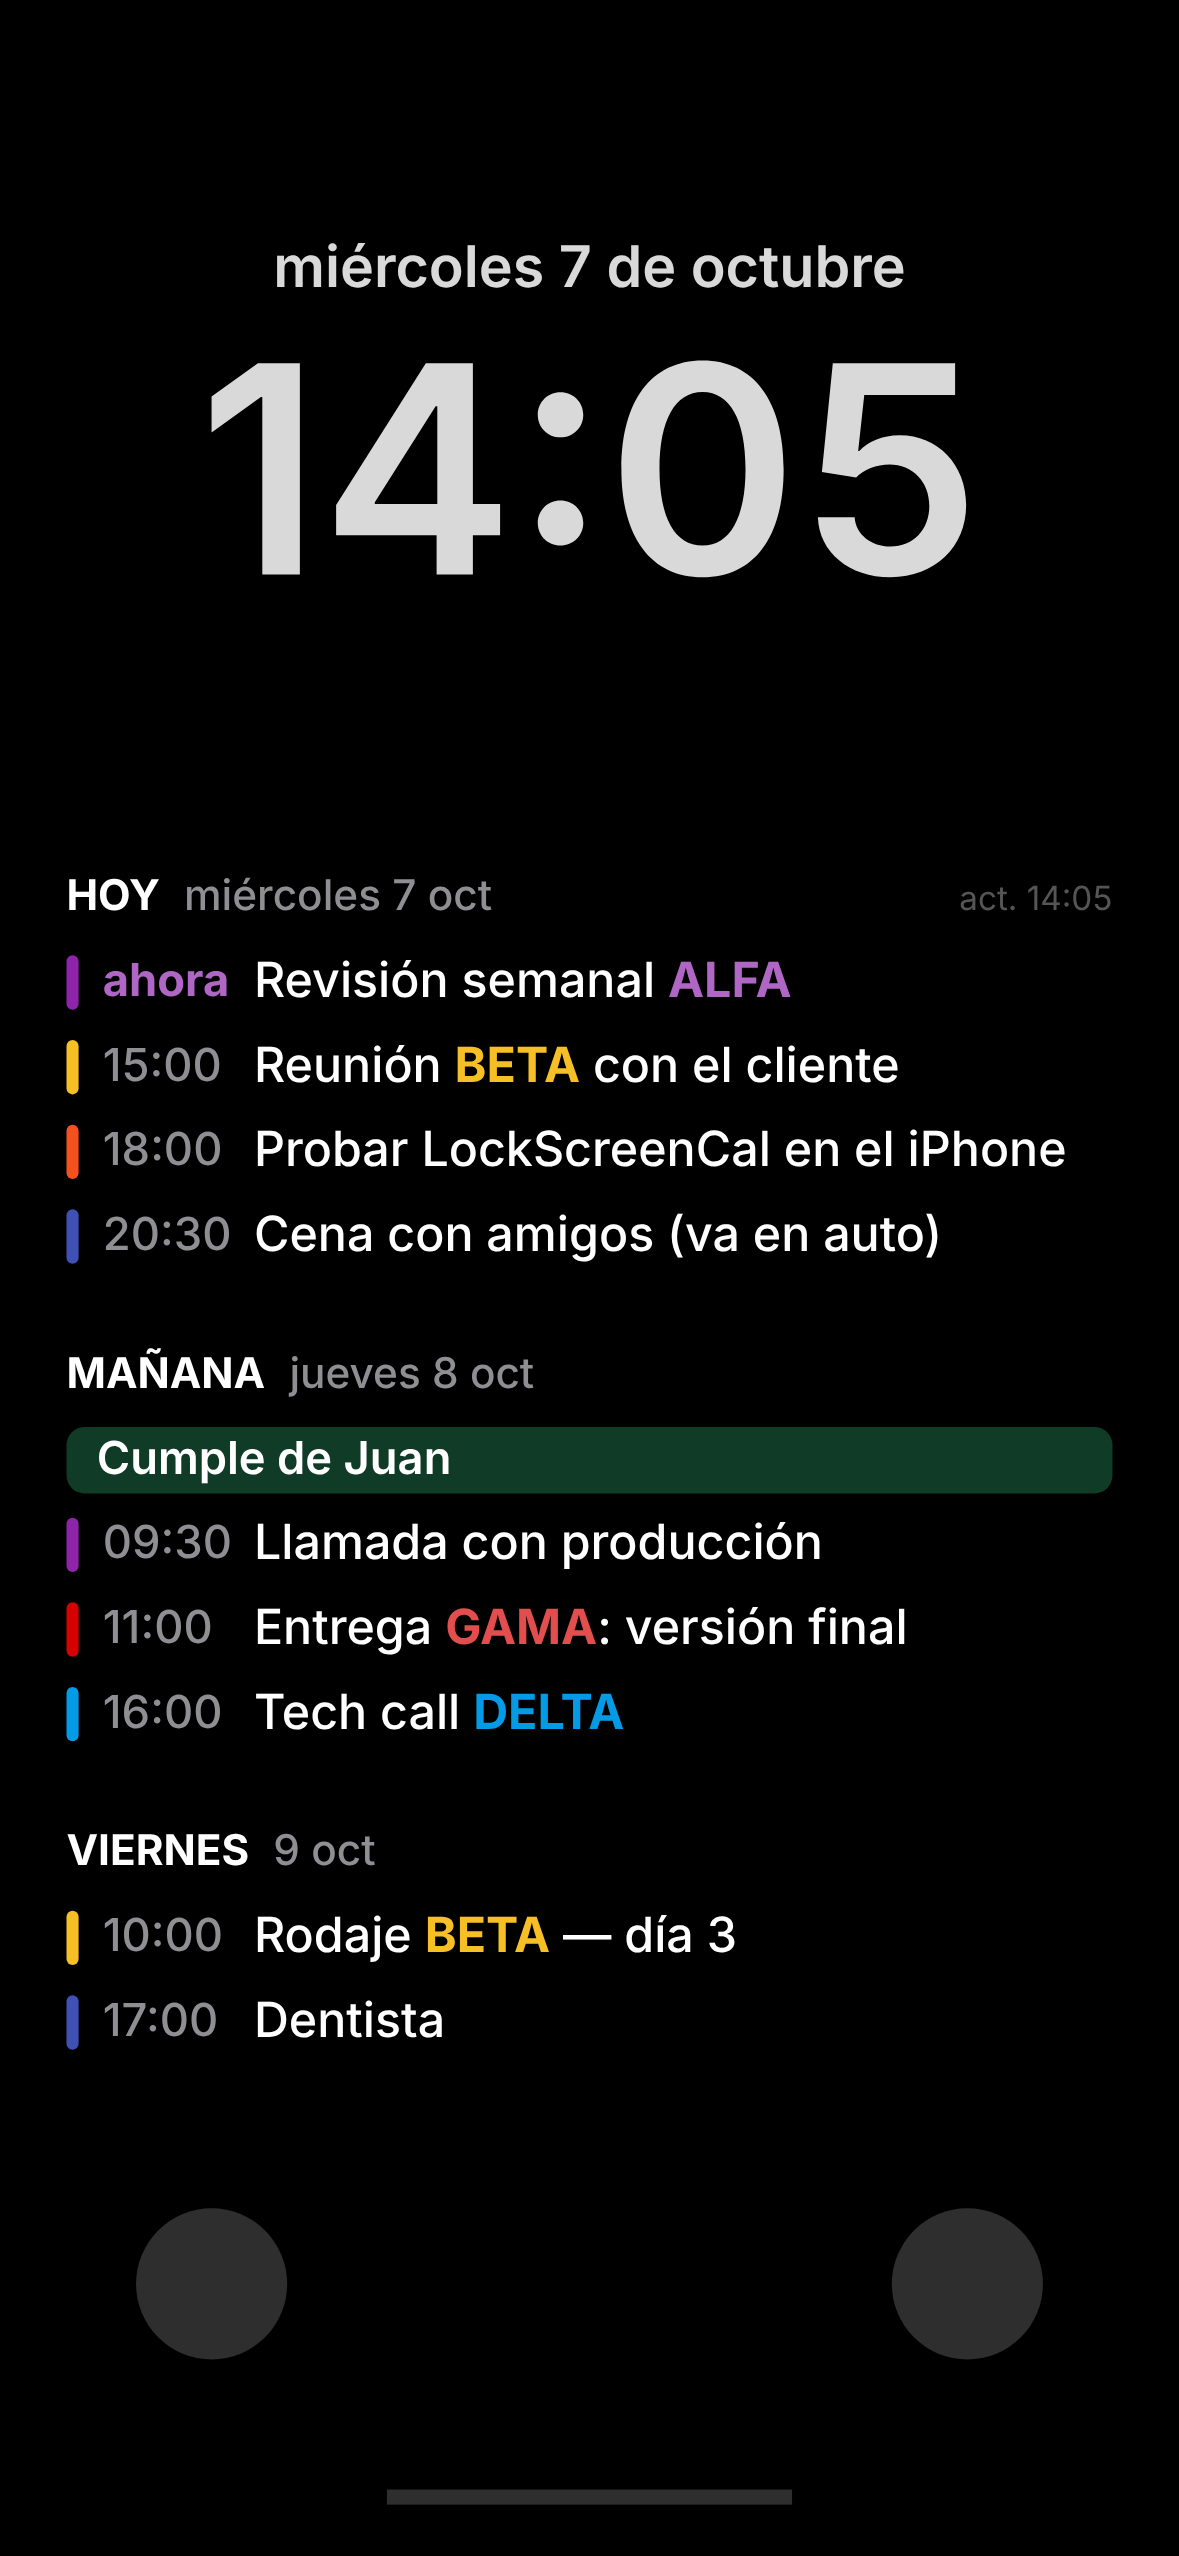
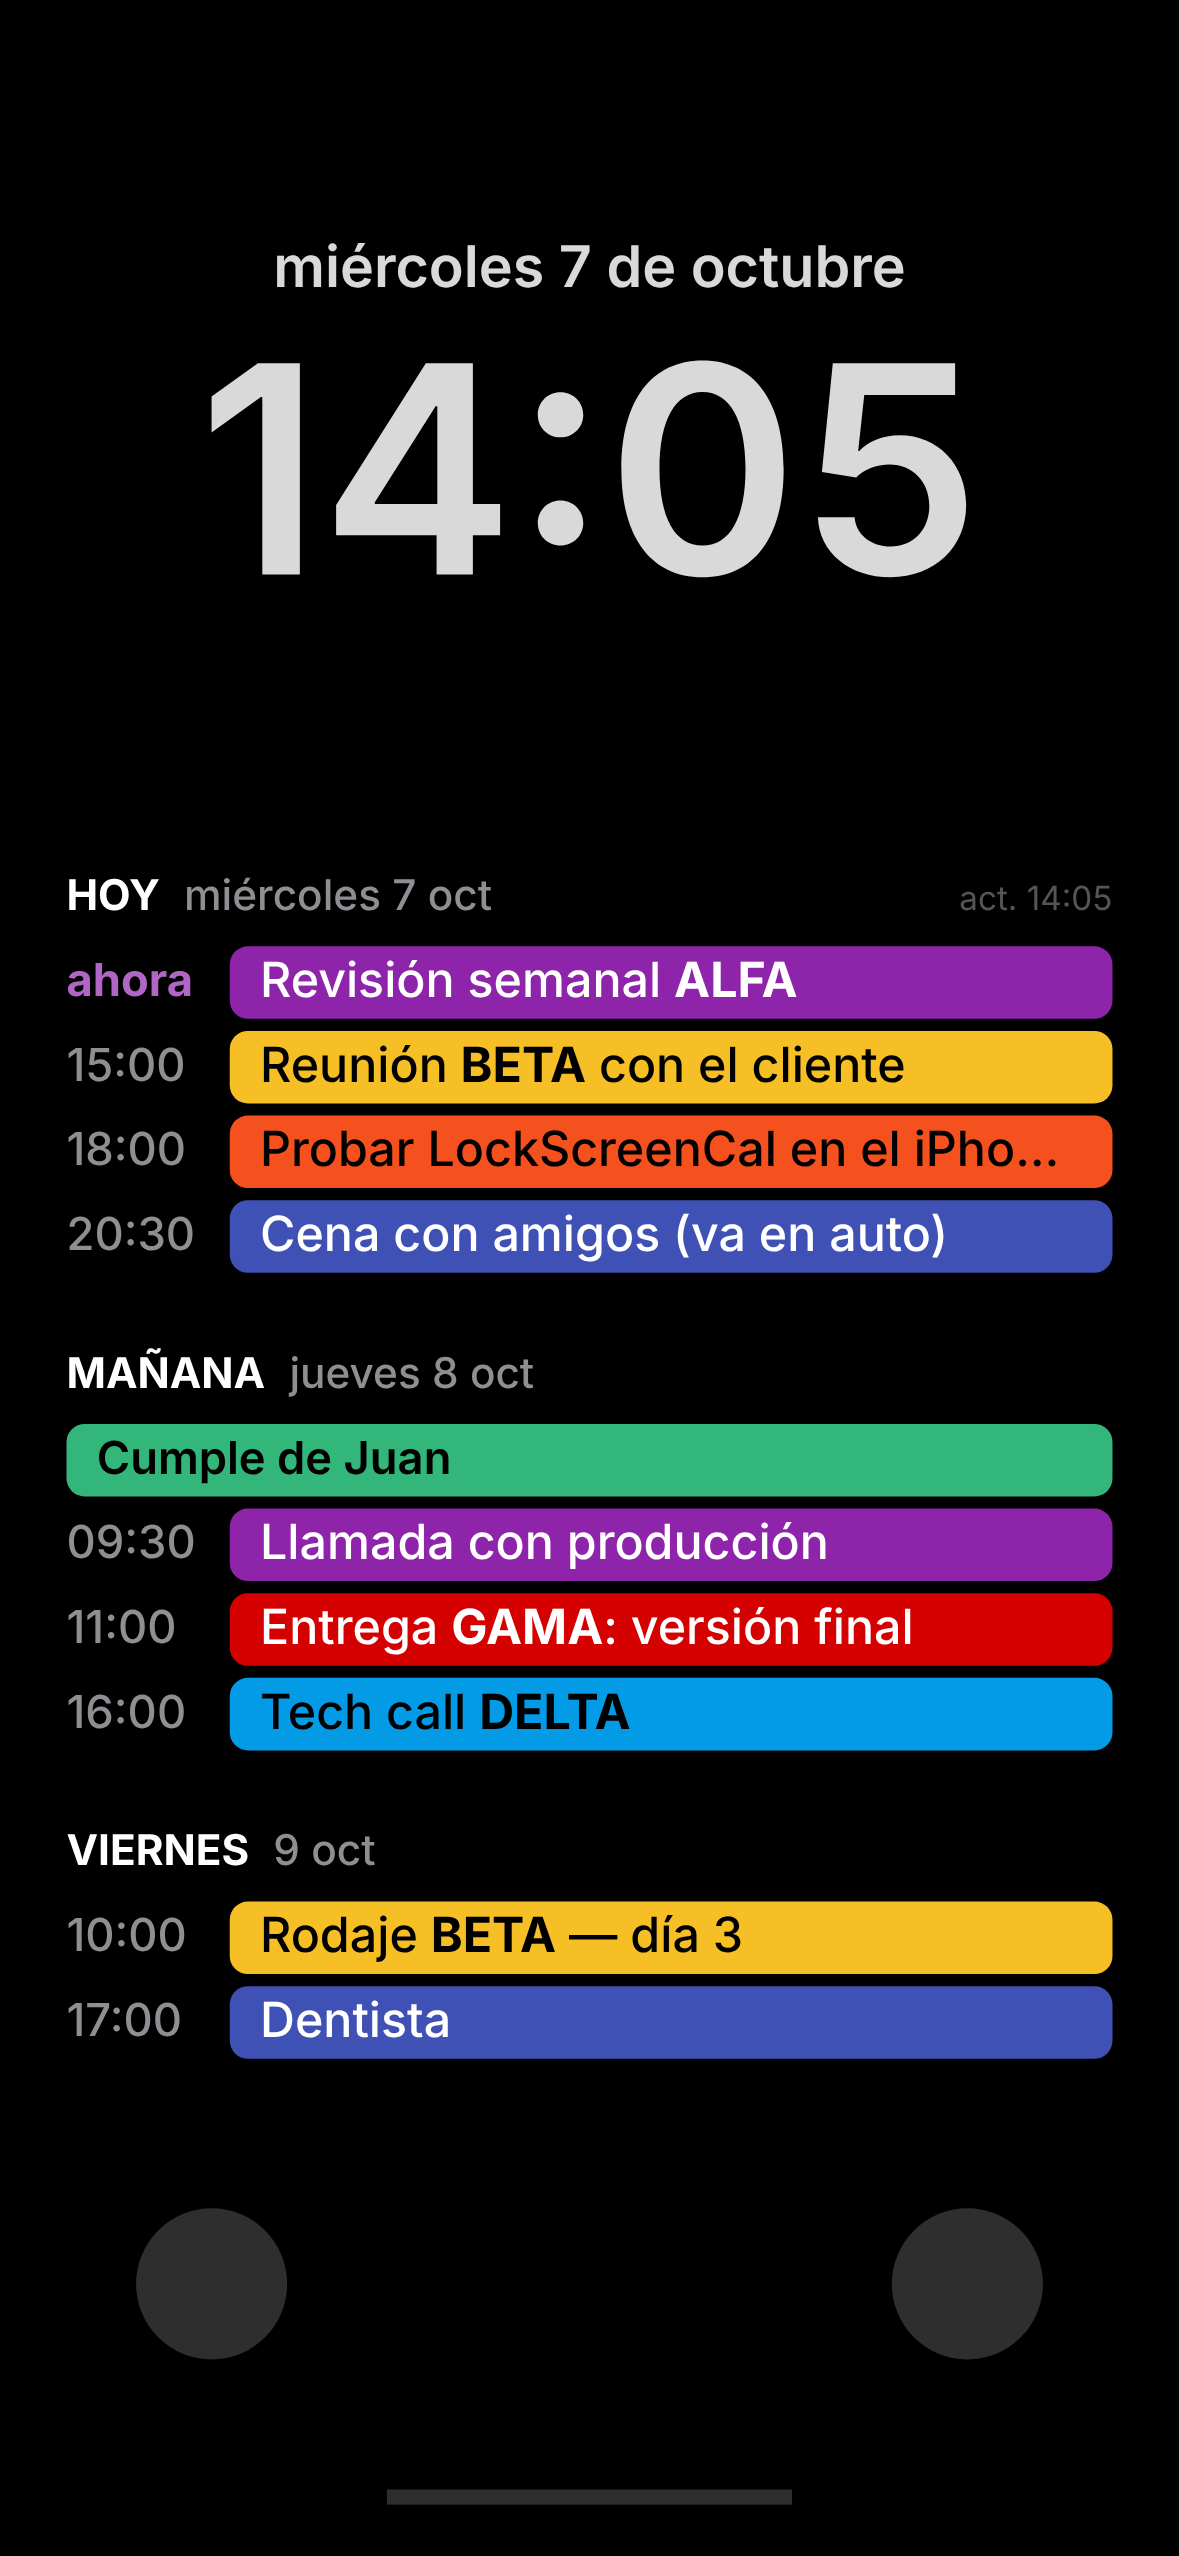
Eventos con el fondo pintado de su color
Cada evento se dibuja como una caja de su color, con el texto en negro o
blanco segun el contraste. La barrita de antes queda como eventStyle: bar.

Changed region(s): [[0.0305, 0.5563, 0.9466, 0.7109], [0.0305, 0.3709, 0.9466, 0.5254], [0.0305, 0.7418, 0.9466, 0.8036]]

diff --git a/LockScreenCal.js b/LockScreenCal.js
@@ -41,6 +41,10 @@ const CONFIG = {
   // Muestra arriba a la derecha la hora de la ultima actualizacion.
   showUpdated: true,
 
+  // Como se pinta cada evento: "fill" = el fondo del evento entero de su color
+  // (como en Google Calendar); "bar" = una barrita de color a la izquierda.
+  eventStyle: "fill",
+
   // Palabras que se pintan de su color cada vez que aparecen en un titulo,
   // ej. { ALFA: "#8E24AA" }. Distingue mayusculas ("VA" se pinta, "va" no) y
   // solo toma palabras enteras. En el texto, un color muy oscuro se aclara
@@ -51,7 +55,7 @@ const CONFIG = {
 // Lo que manda el cargador (MI_CONFIG). Corriendo este archivo suelto no existe.
 if (typeof OVERRIDES === "object" && OVERRIDES) Object.assign(CONFIG, OVERRIDES);
 
-const VERSION = "0.6";
+const VERSION = "0.7";
 
 // ==== RENDER START ====
 // Dibuja el calendario en un <canvas>. Corre dentro de un WebView (en el iPhone)
@@ -85,15 +89,21 @@ function drawCalendar(canvas, data) {
   };
   // Sobre negro, un violeta o un azul oscuro como texto no se lee: se mezcla
   // con blanco hasta que tenga luz suficiente. Las barras usan el color tal cual.
-  const readable = hex => {
+  const toRgb = hex => {
     let h = String(hex || "#888888").replace("#", "");
     if (h.length === 3) h = h.split("").map(c => c + c).join("");
     const n = parseInt(h.slice(0, 6), 16);
-    const rgb = [(n >> 16) & 255, (n >> 8) & 255, n & 255];
-    const lum = c => {
-      const l = c.map(v => { v /= 255; return v <= 0.03928 ? v / 12.92 : Math.pow((v + 0.055) / 1.055, 2.4); });
-      return 0.2126 * l[0] + 0.7152 * l[1] + 0.0722 * l[2];
-    };
+    return [(n >> 16) & 255, (n >> 8) & 255, n & 255];
+  };
+  const lum = c => {
+    const l = c.map(v => { v /= 255; return v <= 0.03928 ? v / 12.92 : Math.pow((v + 0.055) / 1.055, 2.4); });
+    return 0.2126 * l[0] + 0.7152 * l[1] + 0.0722 * l[2];
+  };
+  // Texto sobre un evento pintado: negro o blanco, el que mas contraste tenga
+  // con ese color (criterio de contraste WCAG: el corte cae en luminancia 0.179).
+  const inkOn = hex => lum(toRgb(hex)) > 0.179 ? "#000000" : "#FFFFFF";
+  const readable = hex => {
+    const rgb = toRgb(hex);
     let mix = rgb;
     for (let t = 0; t <= 1 && lum(mix) < 0.22; t += 0.05) mix = rgb.map(v => Math.round(v + (255 - v) * t));
     return `rgb(${mix[0]},${mix[1]},${mix[2]})`;
@@ -104,8 +114,10 @@ function drawCalendar(canvas, data) {
   const kwRe = kwNames.length
     ? new RegExp(`(?<![\\p{L}\\p{N}])(${kwNames.map(esc).join("|")})(?![\\p{L}\\p{N}])`, "gu")
     : null;
-  // Titulo con las palabras clave en su color (y en negrita).
-  const drawTitle = (text, x, cy, maxW, weight, size) => {
+  // Titulo con las palabras clave en su color (y en negrita). Sobre un evento
+  // pintado (ink) van en negrita del color del texto: en su propio color no se
+  // verian, porque casi siempre es el mismo color del fondo.
+  const drawTitle = (text, x, cy, maxW, weight, size, ink) => {
     ctx.font = font(700, size); // se mide con la mas ancha para no pasarse
     const fitted = fit(text, maxW);
     const parts = kwRe ? fitted.split(kwRe) : [fitted]; // con grupo: impares = clave
@@ -113,7 +125,7 @@ function drawCalendar(canvas, data) {
       if (!part) return;
       const isKw = i % 2 === 1;
       ctx.font = font(isKw ? 700 : weight, size);
-      ctx.fillStyle = isKw ? readable(kw[part]) : o.textColor;
+      ctx.fillStyle = ink || (isKw ? readable(kw[part]) : o.textColor);
       ctx.fillText(part, x, cy);
       x += ctx.measureText(part).width;
     });
@@ -162,14 +174,19 @@ function drawCalendar(canvas, data) {
       ctx.fillText("Nada más por hoy", padX, cy);
       return;
     }
+    const fill = o.eventStyle !== "bar";
     if (e.allDay) {
-      ctx.fillStyle = rgba(e.color, 0.32);
-      pill(padX, y + 3 * s, W - 2 * padX, rowH - 6 * s, 6 * s);
-      drawTitle(e.title, padX + 10 * s, cy, W - 2 * padX - 20 * s, 600, 15);
+      ctx.fillStyle = fill ? e.color : rgba(e.color, 0.32);
+      pill(padX, y + 2 * s, W - 2 * padX, rowH - 4 * s, 6 * s);
+      drawTitle(e.title, padX + 10 * s, cy, W - 2 * padX - 20 * s, 600, 15, fill ? inkOn(e.color) : null);
       return;
     }
-    ctx.fillStyle = e.color;
-    pill(padX, y + 5 * s, 4 * s, rowH - 10 * s, 2 * s);
+    if (!fill) {
+      ctx.fillStyle = e.color;
+      pill(padX, y + 5 * s, 4 * s, rowH - 10 * s, 2 * s);
+    }
+    // Con fondo pintado la hora va pegada al margen y el evento empieza despues.
+    const timeX = fill ? padX : padX + 12 * s;
 
     const ongoing = e.start <= now && e.end > now;
     let label = hhmm(e.start);
@@ -177,10 +194,16 @@ function drawCalendar(canvas, data) {
     if (ongoing) label = "ahora";
     ctx.font = font(ongoing ? 700 : 500, 15);
     ctx.fillStyle = ongoing ? readable(e.color) : o.mutedColor;
-    ctx.fillText(label, padX + 12 * s, cy);
+    ctx.fillText(label, timeX, cy);
 
-    const x = padX + 12 * s + timeW;
-    drawTitle(e.title, x, cy, W - padX - x, 500, 16);
+    const x = timeX + timeW;
+    if (fill) {
+      ctx.fillStyle = e.color;
+      pill(x + 4 * s, y + 2 * s, W - padX - x - 4 * s, rowH - 4 * s, 6 * s);
+      drawTitle(e.title, x + 14 * s, cy, W - padX - x - 24 * s, 500, 16, inkOn(e.color));
+    } else {
+      drawTitle(e.title, x, cy, W - padX - x, 500, 16);
+    }
   };
 
   let y = top;

diff --git a/docs/Bitacora.md b/docs/Bitacora.md
@@ -62,6 +62,12 @@ los del iPhone, y los eventos de Wanka vienen con sus colores de proyecto. "Feri
 Argentina" no está en Google: sale del iPhone. Se le pasó el cargador con `googleUrl`.
 **La URL y la clave del puente no van en este repo** (están solo en su Atajo).
 
+**Eventos pintados (v0.7, 10/10):** pedido de Lega, el fondo de cada evento va
+entero de su color (antes era una barrita). El texto va en negro o blanco según la
+luminancia del color (corte WCAG en 0.179). Sobre un evento pintado, las palabras
+clave van en negrita del color del texto (en su color no se verían). La barrita quedó
+como opción: `eventStyle: "bar"`.
+
 Riesgo a mirar: si el nombre que Google le da a un calendario no coincide con el del
 iPhone (el principal a veces se llama como el mail), `onlyCalendars` lo descarta de
 Google y sale la copia del iPhone, sin colores de evento. Se arregla agregando el

diff --git a/README.md b/README.md
@@ -75,6 +75,7 @@ const MI_CONFIG = {
 | `topPercent` / `bottomPercent` | Espacio libre arriba (reloj, widgets) y abajo (linterna, cámara), en % del alto. Por defecto 33 y 13 |
 | `background`, `textColor`, `mutedColor` | Colores |
 | `showUpdated` | Mostrar `act. HH:MM` |
+| `eventStyle` | `"fill"` (por defecto): cada evento con el fondo de su color y el texto en negro o blanco según contraste. `"bar"`: barrita de color a la izquierda |
 | `googleUrl` | Colores de Google por evento (ver abajo) |
 
 Si un mismo evento viene de dos calendarios (pasa con los feriados), se muestra una sola vez.
